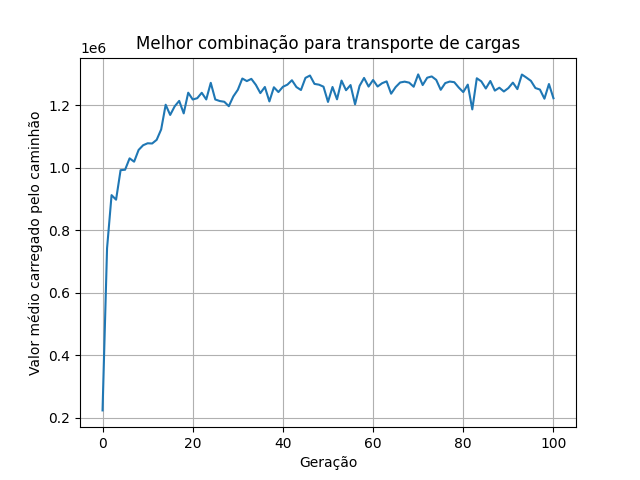
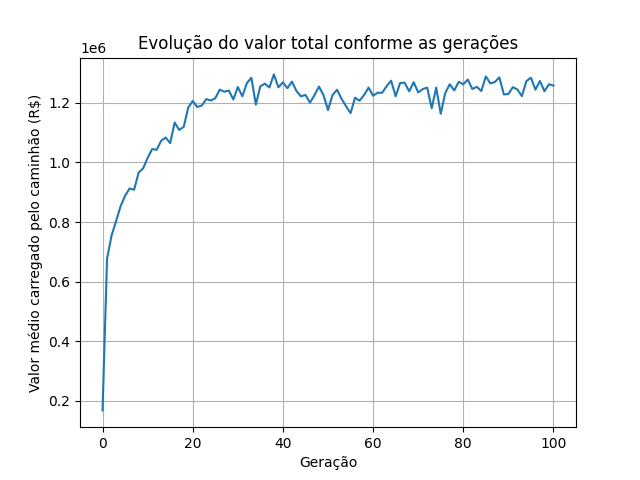
Alteração no CSS e na tabela

diff --git a/lista.html b/lista.html
@@ -1,20 +1,42 @@
 <!DOCTYPE html>
-<html lang="en">
-<head>
-    <meta charset="UTF-8">
-    <meta http-equiv="X-UA-Compatible" content="IE=edge">
-    <meta name="viewport" content="width=device-width, initial-scale=1.0">
-    <script type="text/javascript" src="http://code.jquery.com/jquery.min.js"></script>
-    <title>Lista de itens</title>
-</head>
-<script>
-    
-</script>
-<body>
-    <img src="grafico.png">
-    <div>
-        <h2>Itens que deverão ser carregados pelo caminhão:</h2>
-        <iframe src="tabela.html" frameborder="0" style="width: 100%; height: 100%;"></iframe>
+<html lang="pt-br">
+  <head>
+    <meta charset="UTF-8" />
+    <meta http-equiv="X-UA-Compatible" content="IE=edge" />
+    <meta name="viewport" content="width=device-width, initial-scale=1.0" />
+    <link
+      href="https://cdn.jsdelivr.net/npm/bootstrap@5.0.1/dist/css/bootstrap.min.css"
+      rel="stylesheet"
+      integrity="sha384-+0n0xVW2eSR5OomGNYDnhzAbDsOXxcvSN1TPprVMTNDbiYZCxYbOOl7+AMvyTG2x"
+      crossorigin="anonymous"
+    />
+    <script
+      src="https://cdn.jsdelivr.net/npm/bootstrap@5.0.1/dist/js/bootstrap.bundle.min.js"
+      integrity="sha384-gtEjrD/SeCtmISkJkNUaaKMoLD0//ElJ19smozuHV6z3Iehds+3Ulb9Bn9Plx0x4"
+      crossorigin="anonymous"
+    ></script>
+    <script src="https://ajax.googleapis.com/ajax/libs/jquery/3.5.1/jquery.min.js"></script>
+    <title>Inteligência Artificial</title>
+  </head>
+  <body>
+    <nav class="navbar navbar-light bg-light">
+        <span class="navbar-brand mb-0 h1" style="margin-left: 10px">Inteligência Artificial para logística</span>
+    </nav>
+    <div class="container" style="margin-top: 30px">
+        <div class="row">
+            <div class="col-sm">
+                <img src="grafico.png"/>
+            </div>
+            <div class="col-sm">
+                <h3>Melhor combinação de Itens:</h3>
+                <iframe
+                    src="tabela.html"
+                    frameborder="0"
+                    style="width: 100%; height: 100%"
+                  >
+                </iframe>
+            </div>
+        </div>
     </div>
-</body>
+    </body>
 </html>

diff --git a/tabela.html b/tabela.html
@@ -1,1 +1,1 @@
-<table border="1"><thead><tr><th>nome</th><th>valor</th><th>peso</th></tr></thead><tbody><tr><td>Escultura cisne</td><td>10000</td><td>700</td></tr><tr><td>Escultura cristo menor</td><td>300000</td><td>1000</td></tr><tr><td>Escultura vinicius finger</td><td>500000</td><td>100</td></tr><tr><td>Escultura vinicius finger 2</td><td>500000</td><td>100</td></tr></tbody></table>
+<script src="https://cdn.jsdelivr.net/npm/bootstrap@5.0.1/dist/js/bootstrap.bundle.min.js" integrity="sha384-gtEjrD/SeCtmISkJkNUaaKMoLD0//ElJ19smozuHV6z3Iehds+3Ulb9Bn9Plx0x4" crossorigin="anonymous"></script><link href="https://cdn.jsdelivr.net/npm/bootstrap@5.0.1/dist/css/bootstrap.min.css" rel="stylesheet" integrity="sha384-+0n0xVW2eSR5OomGNYDnhzAbDsOXxcvSN1TPprVMTNDbiYZCxYbOOl7+AMvyTG2x" crossorigin="anonymous"><table style="width: 100%;"><thead><tr><th>Nome</th><th>Valor</th><th>Peso</th></tr></thead><tbody><tr><td>Escultura cisne</td><td>R$10000</td><td>700 kg</td></tr><tr><td>Escultura cristo menor</td><td>R$300000</td><td>1000 kg</td></tr><tr><td>Escultura vinicius finger</td><td>R$500000</td><td>100 kg</td></tr><tr><td>Escultura vinicius finger 2</td><td>R$500000</td><td>100 kg</td></tr></tbody></table>

diff --git a/auxiliar.py b/auxiliar.py
@@ -43,18 +43,24 @@ def processaTabelaHtmlItensIndividuo(individuo, itens):
     objetos = []
     quantidadeCromossomos = len(individuo)
 
+    #Transforma os itens do indivíduo para um objeto JSON
     while i < quantidadeCromossomos:
         if individuo[i] == 1:
             objetos.append(
-                               {"nome":itens[i].getNome(),
-                               "valor":itens[i].getValor(),
-                                "peso":itens[i].getPeso()}
+                               {"Nome":itens[i].getNome(),
+                               "Valor":"R$"+str(itens[i].getValor()),
+                                "Peso":str(itens[i].getPeso())+" kg"}
                              )
         i += 1
         
     html_file = open("tabela.html","w")
-    tabelaHtml = json2html.convert(json=objetos)
+    
+    #Adiciona o bootstrap no frame HTML
+    tabelaHtml = '<script src="https://cdn.jsdelivr.net/npm/bootstrap@5.0.1/dist/js/bootstrap.bundle.min.js" integrity="sha384-gtEjrD/SeCtmISkJkNUaaKMoLD0//ElJ19smozuHV6z3Iehds+3Ulb9Bn9Plx0x4" crossorigin="anonymous"></script>'
+    tabelaHtml += '<link href="https://cdn.jsdelivr.net/npm/bootstrap@5.0.1/dist/css/bootstrap.min.css" rel="stylesheet" integrity="sha384-+0n0xVW2eSR5OomGNYDnhzAbDsOXxcvSN1TPprVMTNDbiYZCxYbOOl7+AMvyTG2x" crossorigin="anonymous">'
+
+    #Transforma o objeto JSON em uma tabela
+    tabelaHtml += json2html.convert(json=objetos,table_attributes='style="width: 100%;"')
+    
     html_file.write(tabelaHtml)
     html_file.close()
-
-    

diff --git a/grafico.py b/grafico.py
@@ -3,9 +3,9 @@ from matplotlib import pyplot as plt
 def geraGraficoHistoricoFitness(historicoFitness):
     plt.plot(range(len(historicoFitness)), historicoFitness)
     plt.grid(True, zorder=0)
-    plt.title("Melhor combinação para transporte de cargas")
+    plt.title("Evolução do valor total conforme as gerações")
     plt.xlabel("Geração")
-    plt.ylabel("Valor médio carregado pelo caminhão")
+    plt.ylabel("Valor médio carregado pelo caminhão (R$)")
 
     plt.savefig('grafico.png')
 
